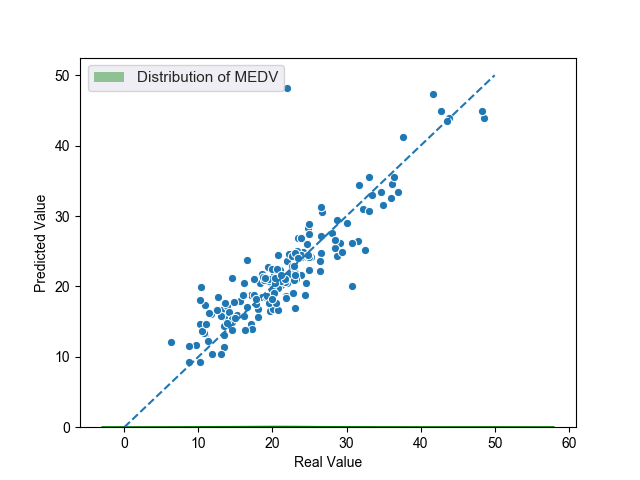
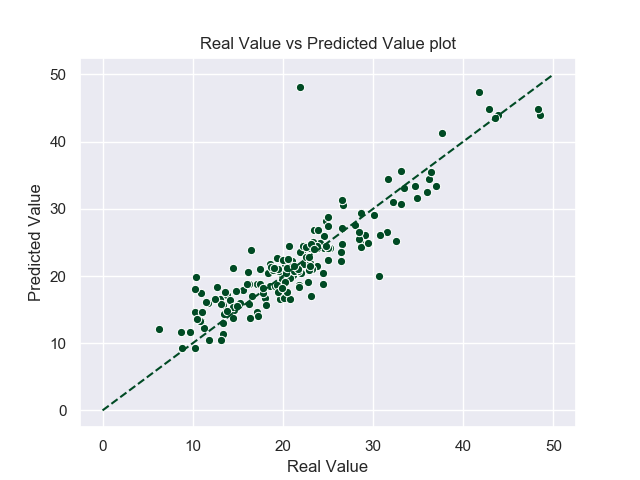
final project

diff --git a/Boston_prediction.py b/Boston_prediction.py
@@ -13,7 +13,7 @@ from sklearn import metrics
 print('Loading and building the Boston data frame..')
 from sklearn.datasets import load_boston
 bostonds = load_boston()
-bostondf = pd.DataFrame(bostonds.data, columns= bostonds.feature_names)
+bostondf = pd.DataFrame(bostonds.data, columns=bostonds.feature_names)
 bostondf['MEDV'] = bostonds.target
 print(bostondf)
 # print(bostondf.describe())
@@ -33,6 +33,8 @@ for feature_name in bostondf.columns:
 
 sns.distplot(bostondf['MEDV'], bins=30, color='g', label='Distribution of MEDV')
 plt.savefig('figures/displot_MEDV.png', dpi=300)
+plt.clf()
+plt.close()
 
 # Seeing that we have many values of 50.00 in MDEV,
 # I decided to drop those lines because I found out they might be missing or false values.
@@ -66,7 +68,7 @@ for (real, predicted) in list(zip(y_test, predicted_values)):
     print(f"Value: {real:.2f}, pred: {predicted:.2f}, diff: {(real - predicted):.2f}")
 
 # Plotting the residuals: difference between real and predicted
-sns.set(palette="Spectral")
+sns.set(palette="ocean")
 residuals = y_test - predicted_values
 
 print('Plotting the results..')
@@ -74,6 +76,7 @@ sns.scatterplot(y_test, predicted_values)
 plt.plot([0, 50], [0, 50], '--')
 plt.xlabel('Real Value')
 plt.ylabel('Predicted Value')
+plt.title('Real Value vs Predicted Value plot')
 plots_file = 'figures/' + '/Real_vs_Predicted.' + 'png'
 plt.savefig(plots_file, format=None)
 plt.clf()
@@ -83,6 +86,7 @@ sns.scatterplot(y_test, residuals)
 plt.plot([50, 0], [0, 0], '--')
 plt.xlabel('Real Value')
 plt.ylabel('Residual (difference)')
+plt.title('Real Value vs Residual (difference) plot')
 plots_file = 'figures/' + '/Real_vs_Residual.' + 'png'
 plt.savefig(plots_file, format=None)
 plt.clf()
@@ -100,6 +104,3 @@ plt.close()
 print(f"Printing MAE error(avg abs residual): {metrics.mean_absolute_error(y_test, predicted_values)}")
 print(f"Printing MSE error: {metrics.mean_squared_error(y_test, predicted_values)}")
 print(f"Printing RMSE error: {np.sqrt(metrics.mean_squared_error(y_test, predicted_values))}")
-
-
-

diff --git a/README.md b/README.md
@@ -7,11 +7,10 @@
 -----
 
 ### Resources
-Your repository should include the following:
 
-- Python script for your analysis: `Boston_prediction.py`
-- Results figure/saved file:  `figures/`
-- Dockerfile for your experiment: `Dockerfile`
+- Python script : `Boston_prediction.py`
+- Results figure/saved file :  `figures/`
+- Dockerfile : `Dockerfile`
 - runtime-instructions in a file named RUNME.md
 
 -----

diff --git a/RUNME.md b/RUNME.md
@@ -1,0 +1,15 @@
+### To build:
+
+The container can be built using the following command from within this directory:
+
+```
+docker build -t s-ngo/cebd1160_project .
+```
+
+### To run:
+
+The software can be run from within this directory with the following command:
+
+```
+docker run -ti -v ${PWD}/data:/data -v ${PWD}/figures:/figures s-ngo/cebd1160_project /data /figures
+```
